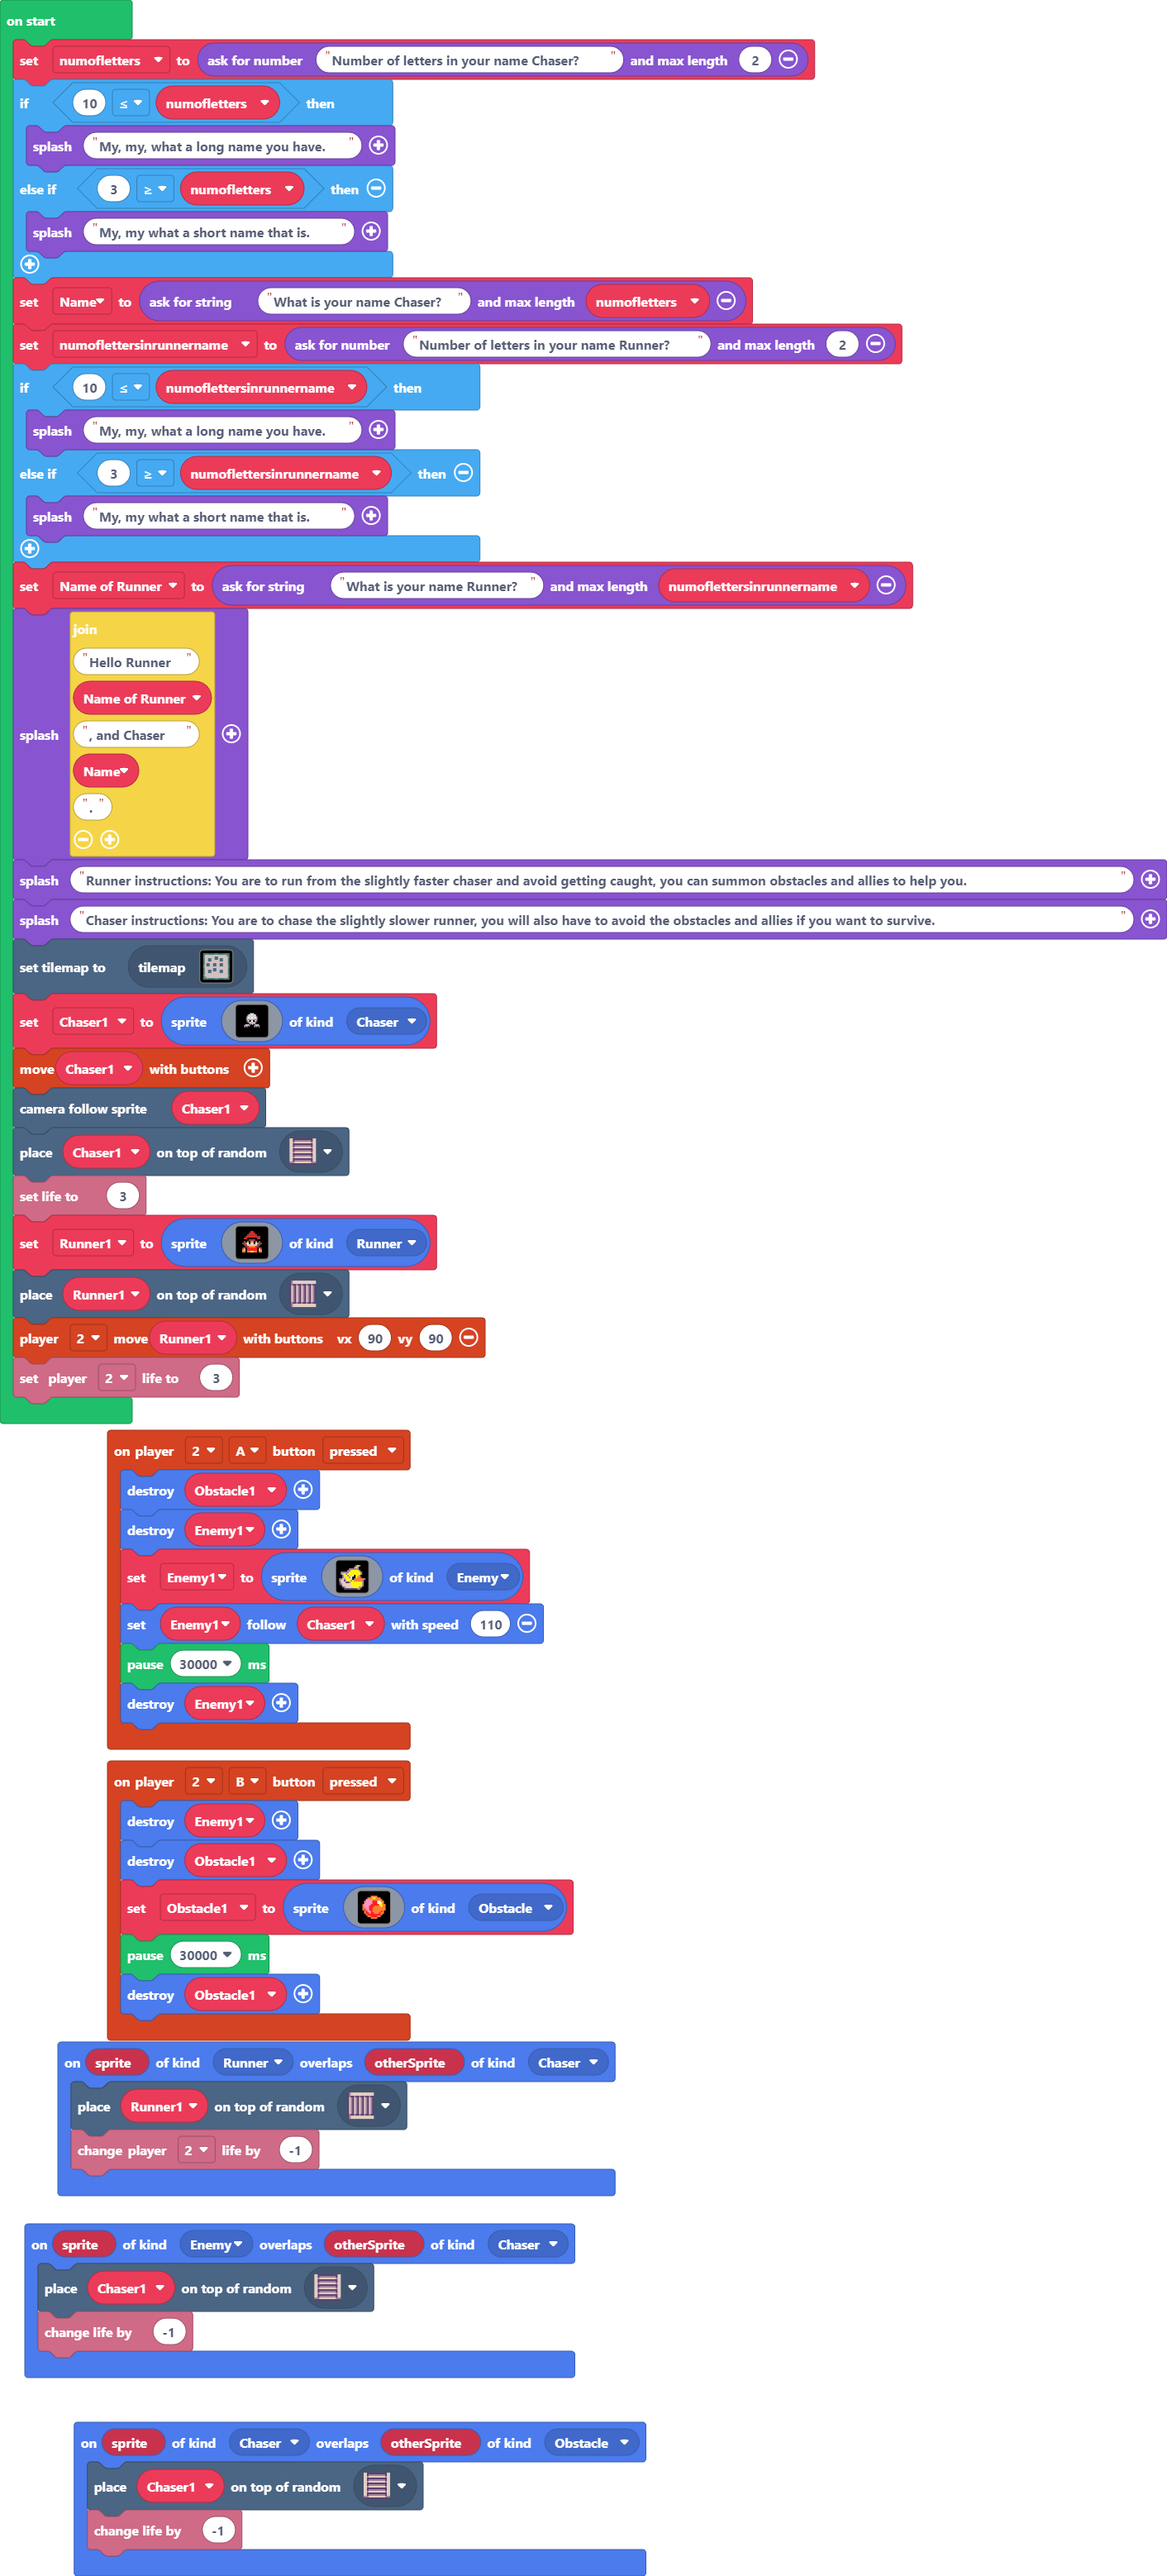
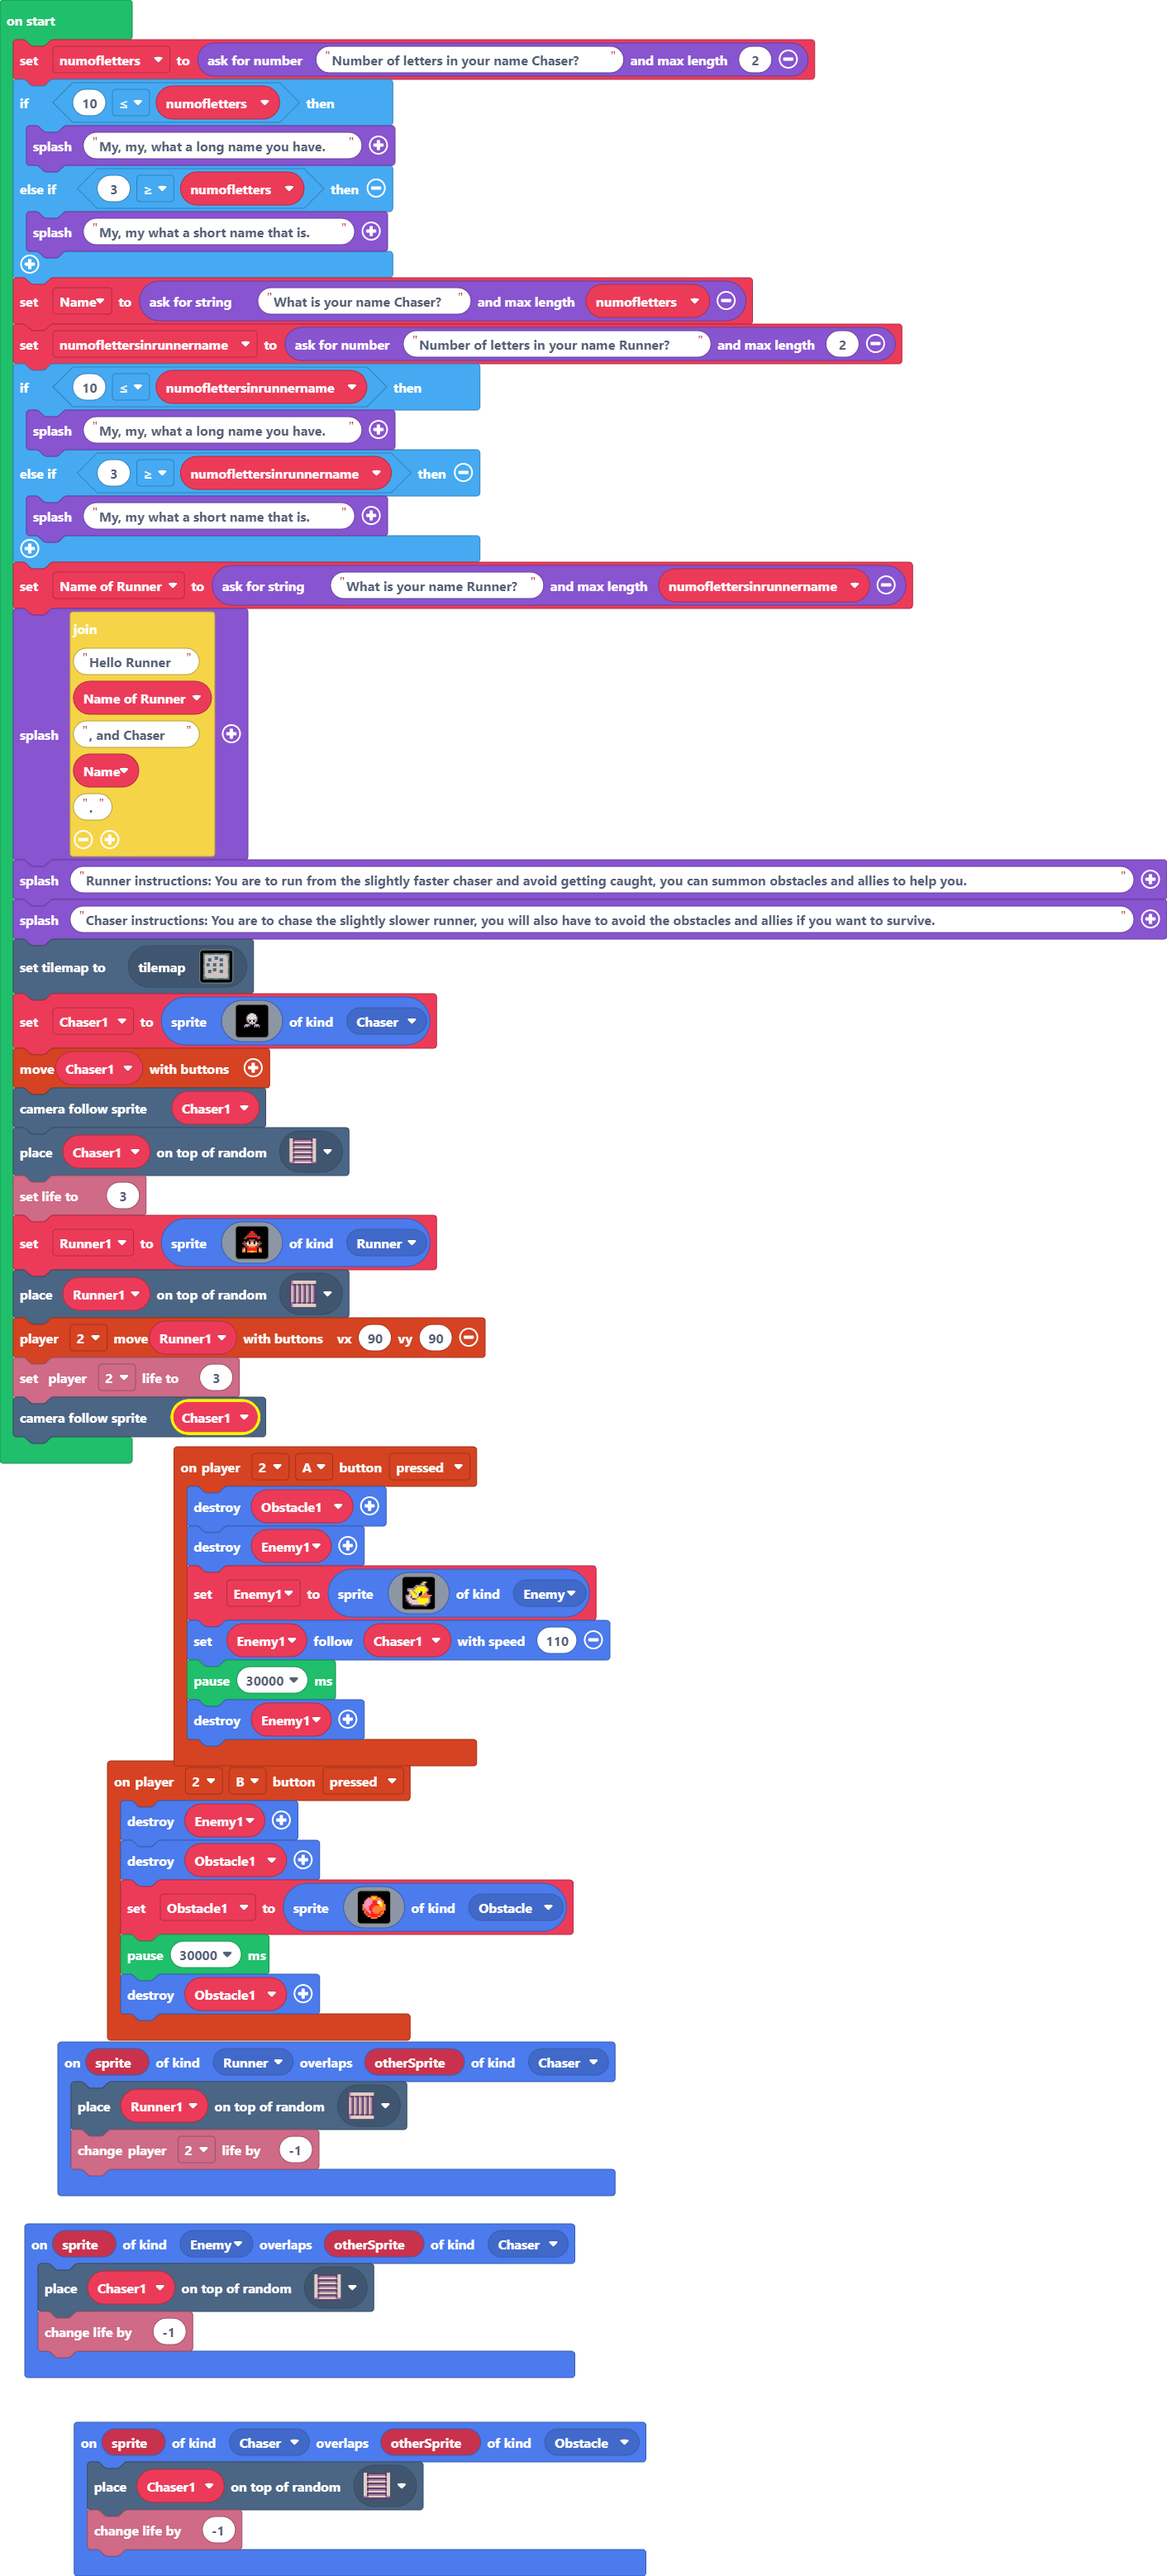
Update main.blocks, main.ts

Changed region(s): [[0.0, 0.5292, 0.5297, 0.6849]]

diff --git a/main.ts b/main.ts
@@ -137,3 +137,4 @@ Runner1 = sprites.create(img`
 tiles.placeOnRandomTile(Runner1, sprites.dungeon.stairEast)
 controller.player2.moveSprite(Runner1, 90, 90)
 info.player2.setLife(3)
+scene.cameraFollowSprite(Chaser1)
